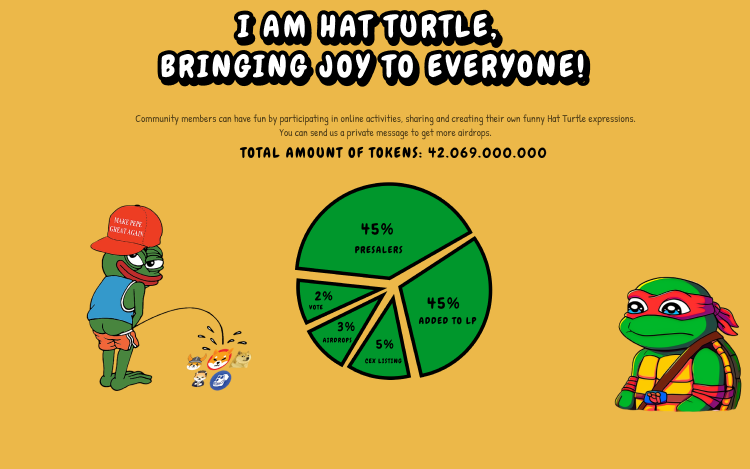
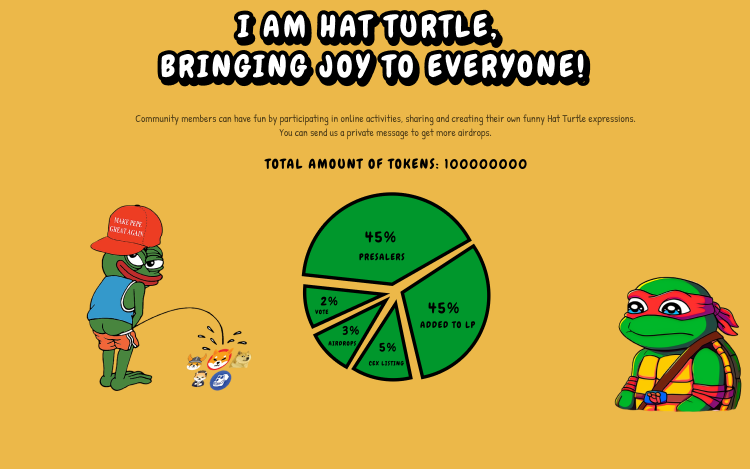
change amount

Changed region(s): [[0.368, 0.3881, 0.6747, 0.8358], [0.3067, 0.2985, 0.736, 0.3582]]

diff --git a/desktop.html b/desktop.html
@@ -229,7 +229,7 @@
                 /> -->
                 <img
                   class="image_9 pos_25"
-                  src="assets/pie.png"
+                  src="assets/pie_new.png"
                 />
                 <!-- <div class="flex-col section_7 pos_14">
                   <div class="flex-col items-start self-stretch group_10">
